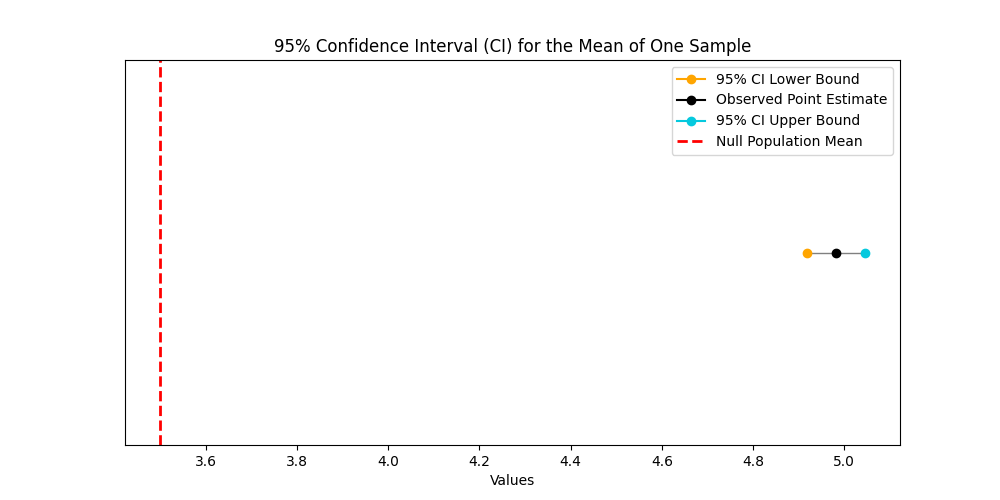
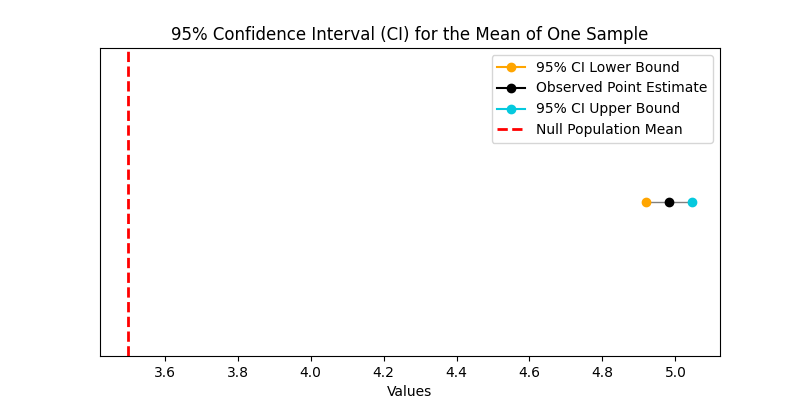
Changing notebook to reflect the changes in the api that creates one sample ci. Also renaming the markdown from readme to description and creating a separate readme in the parent directory of the project.

diff --git a/description/description.md b/description/description.md
@@ -119,27 +119,17 @@ confidence_interval
 
 
 ```python
-from hypothesis_testing_tool.presentation.create_plots import create_one_sample_hypothesis_plot
+from hypothesis_testing_tool.presentation.create_plots import OneSampleCIPlot
 
 ```
 
 
 ```python
-create_one_sample_hypothesis_plot(
-    path_to_save_plot = "artifacts/one_sample_plot.png",
-    ci_dict = confidence_interval,
-    width = 10,
-    height = 5
-)
+with OneSampleCIPlot(confidence_interval, width = 8, height = 4) as plot_instance:
+        plot_instance.save_plot("artifacts/one_sample_plot.png")
+        plot_instance.show_plot()
+
 ```
-
-
-
-
-    (<Figure size 1000x500 with 1 Axes>,
-     <Axes: title={'center': '95% Confidence Interval (CI) for the Mean of One Sample'}, xlabel='Values'>)
-
-
 
 <img src="https://raw.githubusercontent.com/vamvas/hypothesis-testing-tool/master/description/artifacts/one_sample_plot.png" >
 

diff --git a/README.md b/README.md
@@ -1,0 +1,5 @@
+# Description
+
+A package for conducting one sample and two sample hypothesis testing.
+
+The API provides both p-values and confidence intervals, complemented with plots for visualising results.
